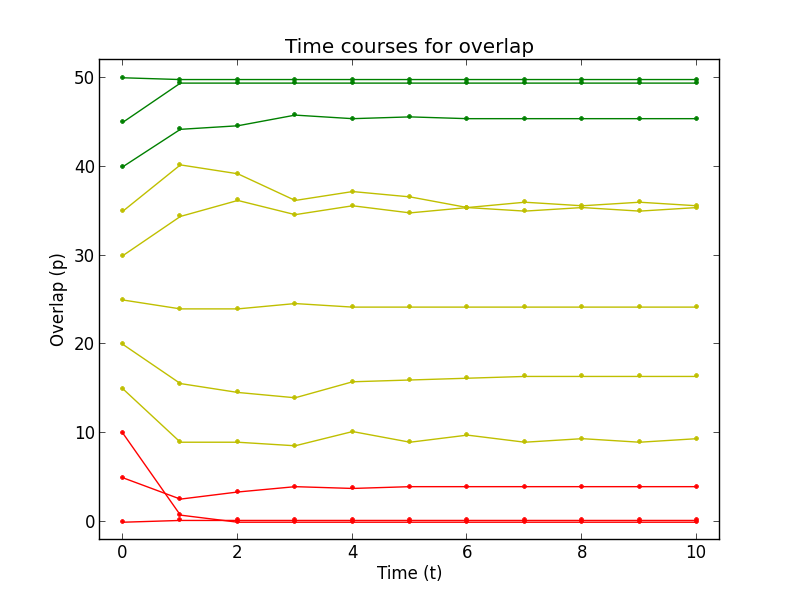
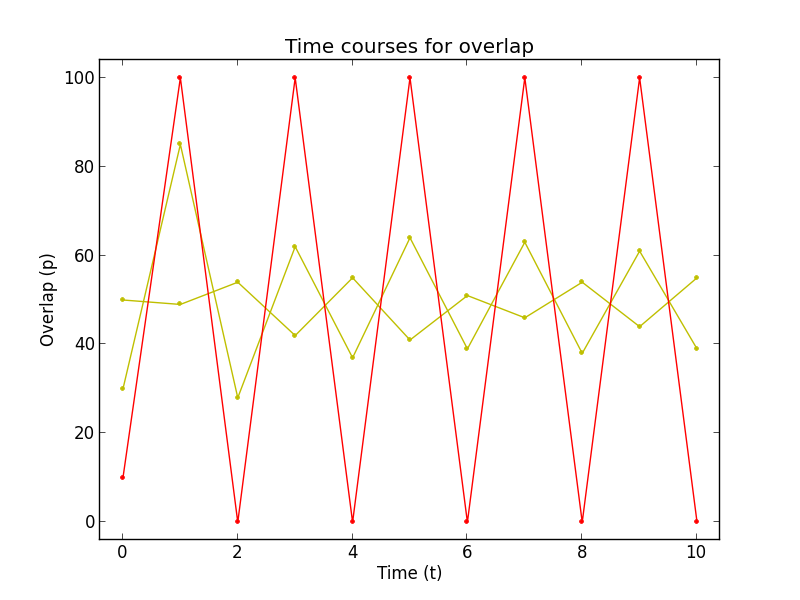
gave up on partial reverse. moving on to nomonotone dynamics'

diff --git a/python/network.py b/python/network.py
@@ -127,6 +127,7 @@ class Hopfield_Network(object):
 		'''
 		#arbitrary paremeters h and lam(bda) are described in the paper. When internet available, look up constants in py
 		# h = 1+2.0*math.sqrt(r)
+
 		h = 1.9
 		print "h"+str(h)
 		lam = 2.7
@@ -158,36 +159,39 @@ class Hopfield_Network(object):
 			#Phase II:
 			#this is an attempt to interpret his "explicit" version iteratively
 			#phase I
-			np.set_printoptions(threshold=np.inf)
 			u = [0]*self.n
 			v = [0]*self.n
 			for i in range(self.n):
 				for j in range(self.n):
 					u[i]+=self.weights[i,j]*self.state_vector[j]
-			
+
+				# u[i]/=j
 			for i in range(self.n):
 				self.state_vector[i]=np.sign(u[i])
 			# time_series.append(self.state_vector[:])
 			#phase II
-			for i in range(self.n):
-				for j in range(self.n):
-					u[i]+=self.weights[i,j]*self.state_vector[j]
+			# for i in range(self.n):
+			# 	for j in range(self.n):
+			# 		u[i]+=self.weights[i,j]*self.state_vector[j]
+				# u[i]/=j
 			for i in range(self.n):
 				for j in range(self.n):
 
 					v[i]+=self.weights[i,j]*self.phi(u[j])
 
-			# print u
+			print u
 			# print v
 			for i in range(self.n):
 				# print u[i]-lam*v[i]
-				if(not( (float(u[i])/v[i] ) >0 and (float(u[i])/v[i]) < lam)):
-					# print "true"
-					self.state_vector[i]=self.state_vector[i]*-1
+				# if(( (float(u[i])/v[i] ) >0 and (float(u[i])/v[i]) < lam)):
+				# 	# print "true"
+				# 	self.state_vector[i]=self.state_vector[i]*-1
 				# else:
 					# print "false"
-				# self.state_vector[i]=np.sign(u[i]-lam*v[i])
-				# print u[i]/v[i]
+				print u[i]-lam*v[i]
+				self.state_vector[i]=np.sign(u[i]-lam*v[i])
+				# if(v[i]!=0 and float(u[i])/v[i]<lam and float(u[i])/v[i]>0):
+				# 	self.state_vector[i]*=-1
 
 			#Phase II:
 			#this is an attempt to interpret his "abbreviated" version
@@ -212,3 +216,7 @@ class Hopfield_Network(object):
 		tstate = [[i] for i in state]
 		# print np.shape(tstate)
 		return [i.tolist()[0][0] for i in weights*[[i] for i in state]]
+	def normalize_net(self):
+		for i in range(len(self.weights)):
+			for j in range(len(self.weights[i])):
+				self.weights[i,j]/=self.n

diff --git a/python/simulation.py b/python/simulation.py
@@ -11,10 +11,10 @@ import matplotlib.pyplot as plt
 
 def main():
 	#How many simulations (unique nets) should be run:
-	sims = 5
+	sims = 1
 	#general parameters
-	n=50
-	num_overlap_levels = 10
+	n=100
+	num_overlap_levels = 5
 
 	if(n<num_overlap_levels):
 		print "Be better."
@@ -30,7 +30,7 @@ def main():
 	num_tol=int(tolerance*n)
 	print num_tol
 
-	for r in range(150,275,25):
+	for r in range(25,275,25):
 		r*=0.001
 		#Here we run the simulation sims times
 		tally=[]
@@ -68,7 +68,7 @@ def simulate(n,num_overlap_levels,num_trials,time_limit,r,synch,part_reverse,tol
 	overlap level as dictated by its location in the o_levels list. Cool.
 	'''
 	
-	p_references = np.arange(0, n+1, n/num_overlap_levels) #just for keeping track of which indexes of o_levels are for which overlap percentages
+	p_references = np.arange(n/2, n+1, n/num_overlap_levels) #just for keeping track of which indexes of o_levels are for which overlap percentages
 	#o_levels is a list. Each index has a set of trials conducted for that initial overlap level, which is a "trials" list. Each trials list contains time-series lists
 	#containing integers corresponding to how many indexes of the memory are correct.
 	o_levels=[]
@@ -82,7 +82,7 @@ def simulate(n,num_overlap_levels,num_trials,time_limit,r,synch,part_reverse,tol
 		memories.append(generate_memory(n))
 		net.store(memories[i])
 	print compare(memories[0],memories[1])
-
+	net.normalize_net()
 	#now, we run trials on this network.
 	tally_perfect=0
 	total=0
